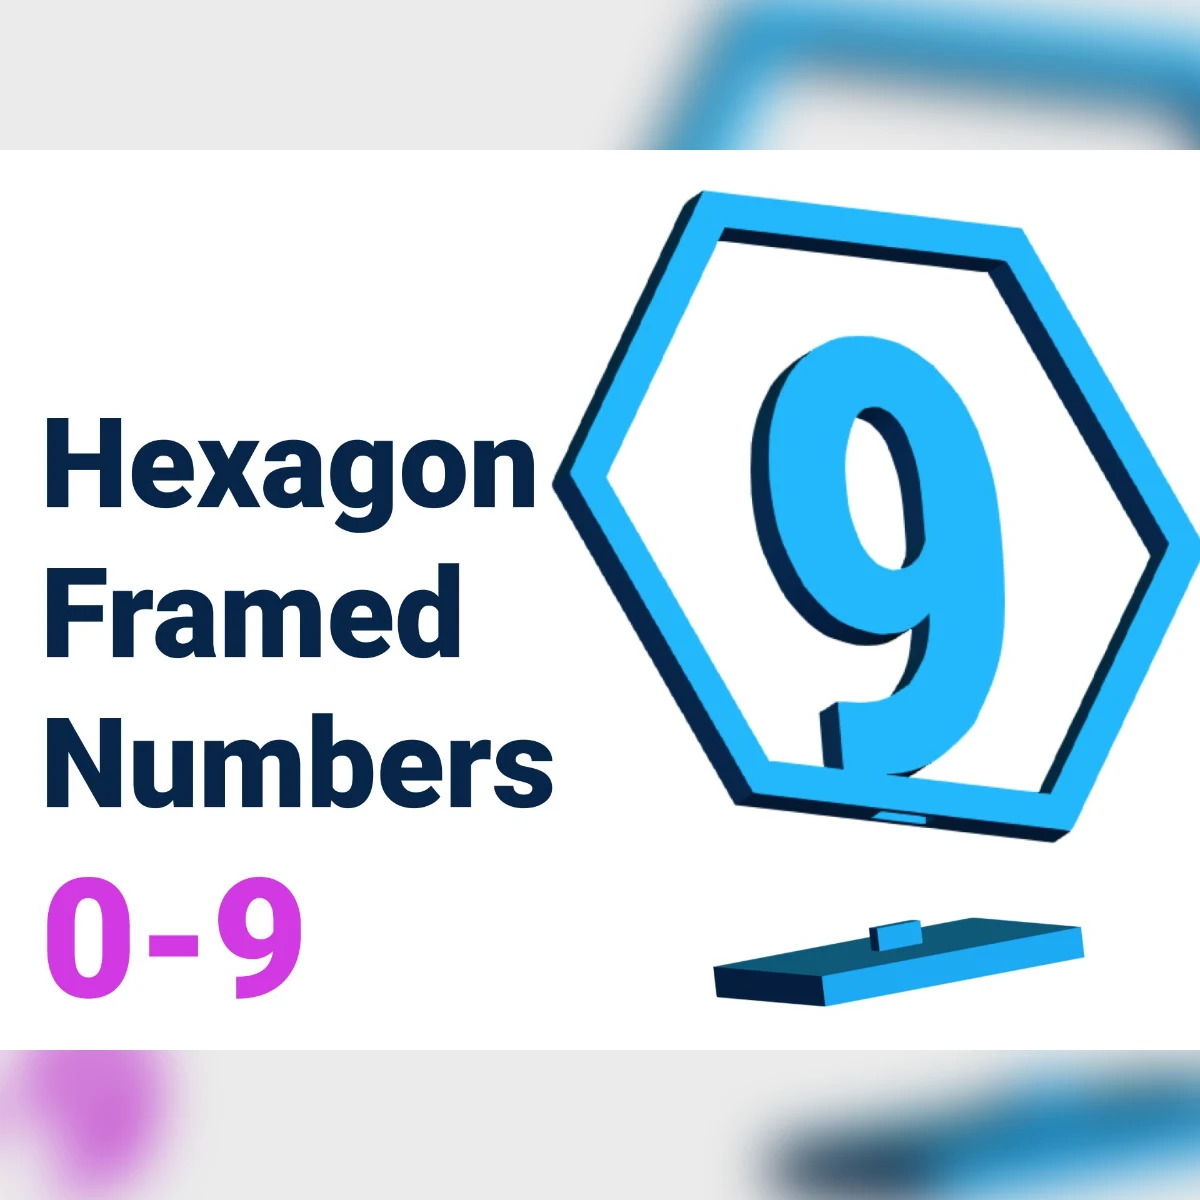
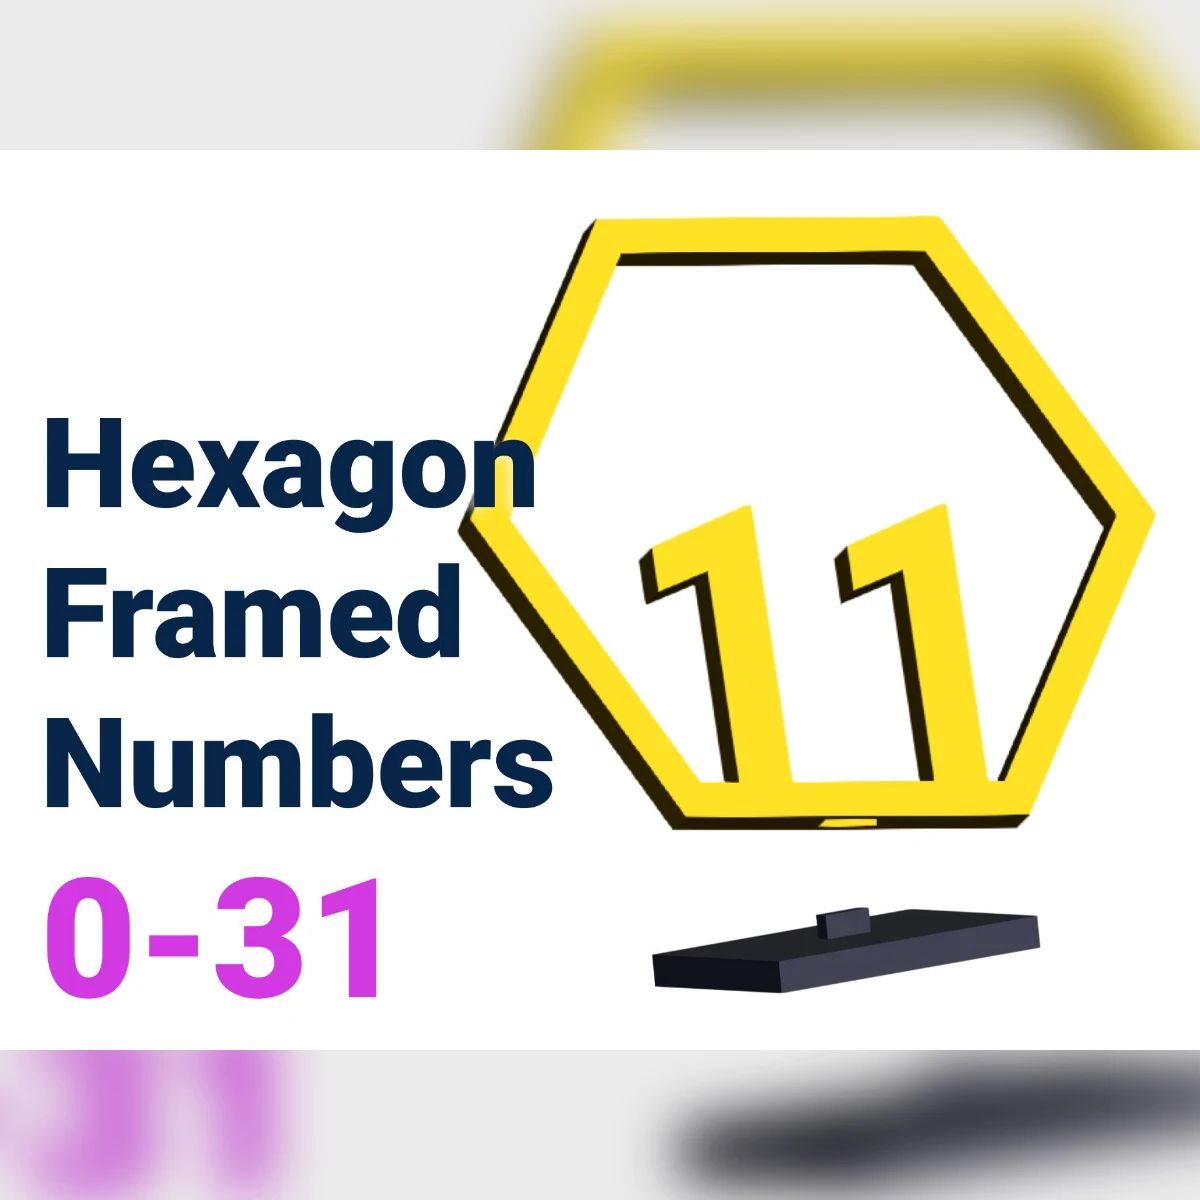
Add Hexagon Framed Numbers

diff --git a/_models/hexagon-framed-numbers.md b/_models/hexagon-framed-numbers.md
@@ -1,7 +1,7 @@
 ---
 title: "Hexagon Framed Numbers"
-extended_title: "0-9 Large Digits in Hexagon Frame with Base"
-tagline: "Great as signage and decoration for anniversaries, kids birthdays and other events"
+extended_title: "0-31 Small Digits in Hexagon Frame with Base"
+tagline: "Great as signage and decoration for weddings, anniversaries, birthdays and other events"
 shortname: "hexagon-framed-numbers"
 category: "gifts-decor"
 fan_favorite: false
@@ -12,20 +12,22 @@ gallery_images: []
 detailed_images: []
 tags:
   - "hexagon"
+  - "decoration"
   - "frame"
   - "sign"
-  - "party"
-  - "kids"
+  - "small"
+  - "base"
   - "hex"
   - "wedding"
-  - "anniversary"
-  - "event"
-  - "number"
-  - "digits"
-  - "kidsbirthday"
+  - "signage"
+  - "numbers"
+  - "events"
+  - "birthdays"
+  - "weddings"
+  - "anniversaries"
 downloads:
   makerworld: ""
-  printables: "https://www.printables.com/model/943427-hexagon-framed-numbers-0-9-large-digits-in-hexagon"
+  printables: "https://www.printables.com/model/943486-hexagon-framed-numbers-0-31-small-digits-in-hexago"
   thangs: ""
   cults3d: ""
 youtube_shorts: []
